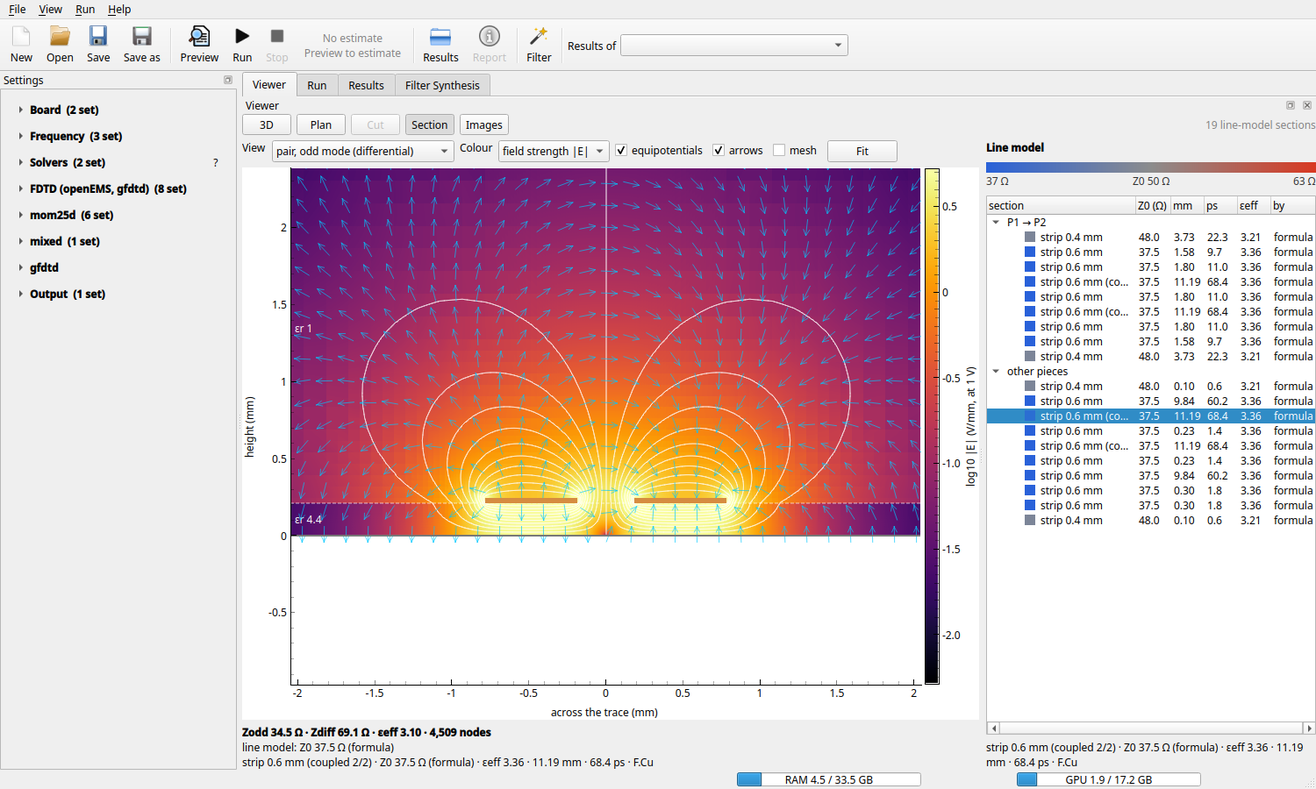
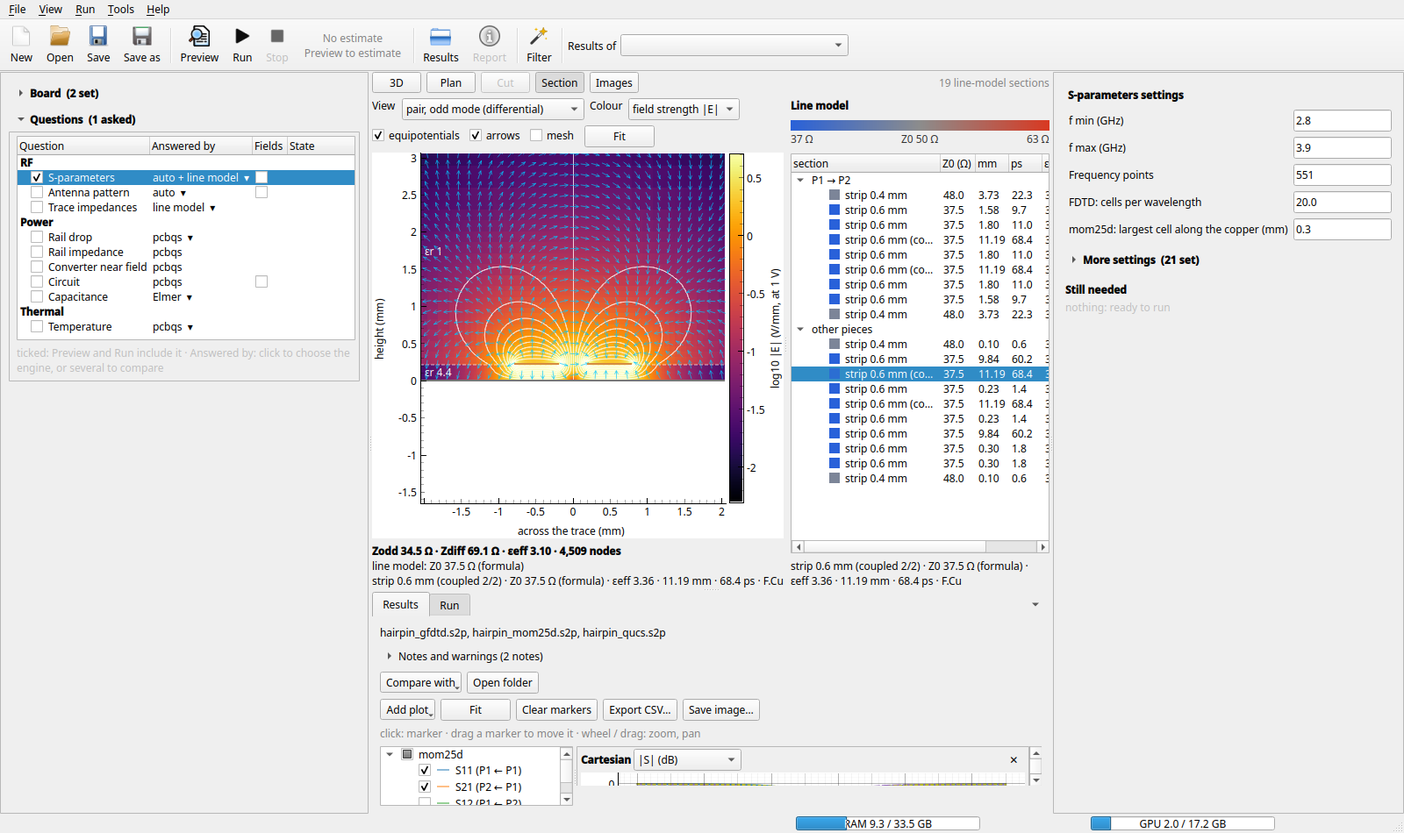
API 2.9: what a window shows first, what a run still needs; the window's fixed layout (docs, pins)
- options.Option.level: 'basic' for the few settings a run is set up with (the
  board, extra ports, the frequency range and points). A solver names its own
  in Solver.basic (all_options marks them): kicad2ems-fdtd's cells per
  wavelength, mom25d's and pcbqs's largest cell.
- study.rf_needs(values): what an S-parameter run of a form's values still
  needs, [dict(text, key)]: no board, a board that is not there, a KiCad board
  without a port (its footprints read, no model made), a band the wrong way
  round.
- analyses.Analysis.missing(values, board, results): the same for an analysis,
  by default what its command raises; Analysis.uses: the analyses whose result
  it can start from, so that what one of them will give in the same run is not
  missing.

kicad2ems-gui 25c1487 uses them: one fixed layout (the questions, the board
with a Results and Run drawer under it, the settings), the few settings first
with the rest under a searchable "More settings", and a "Still needed" list
with a Run button that says what it will do. docs/gui.md describes the window
as it is now, with its pictures taken again; docs/api.md the API. pcbqs f4ffefb
says a rail's load with no pad on ground there (roadmap, Power tools item 1:
what is left of it). Roadmap: what is left of the window's redesign.
Pins: kicad2ems-gui, pcbqs, mom25d. Version 261112.post9.

Claude-Session: https://claude.ai/code/session_012CT5QN8wURAqVga6eLwqiU

diff --git a/tests/test_study.py b/tests/test_study.py
@@ -370,3 +370,50 @@ def test_two_engines_answers_side_by_side(plugins, tmp_path):
     assert study.default_fields('openems', 1e-5, 1e-2, sweep='log') == dict(dump=['E@F.Cu@0.000316'])
     assert study.default_fields('mom25d', 1.0, 6.0) == dict(mom_dump=[3.5])           # its current maps: the frequency
     assert study.default_fields('qucs', 1, 2) == {} and study.default_fields('nobody', 1, 2) == {}
+
+
+def test_what_a_run_still_needs_and_what_is_shown_first(plugins, tmp_path, demo_files):
+    """API 2.9. rf_needs: what an S-parameter run of a form's values lacks, with the setting it is set by (cheap:
+    the board's footprints, no model). An analysis's missing(): what its command raises, unless what it uses is
+    to come in the same run. An option's level: kicad2ems's few, and those a solver names in `basic`."""
+    from kicad2ems.study import rf_needs
+    from kicad2ems.config import all_options, CORE
+    from kicad2ems.analyses import Analysis
+    assert rf_needs({}) == [dict(text='choose the board', key='board')]
+    assert rf_needs(dict(board=str(tmp_path / 'no.kicad_pcb'))) == [dict(text='the board is not there: no.kicad_pcb', key='board')]
+    board = demo_files[0] + '.kicad_pcb'
+    assert rf_needs(dict(board=board, fmin='1', fmax='8')) == []                 # (its ports: from its pos file)
+    assert rf_needs(dict(board=board, pos=demo_files[0] + '-top.pos')) == []
+    assert [m['key'] for m in rf_needs(dict(board=board, fmin='8', fmax='2'))] == ['fmax']
+    assert [m['key'] for m in rf_needs(dict(board=board, fmin='x'))] == ['fmin']
+    bare = tmp_path / 'bare.kicad_pcb'
+    bare.write_text('(kicad_pcb (version 20240108) (generator "pcbnew") (layers (0 "F.Cu" signal) (31 "B.Cu" signal)))')
+    got = rf_needs(dict(board=str(bare)))
+    assert [m['key'] for m in got] == ['ports'] and got[0]['text'].startswith('the board has no port')
+    assert rf_needs(dict(board=str(bare), ports=['P1@1,2'])) == [] and rf_needs(dict(board=str(bare), pos='b.pos')) == []
+
+    class Rail(Analysis):
+        name = 'rail'
+
+        def command(self, values, board, out, preview=False, results=None):
+            if not values.get('rail'):
+                raise ValueError('name the rail')
+            return ['x']
+
+    class Heat(Analysis):
+        name, uses = 'heat', ('circuit',)
+
+        def command(self, values, board, out, preview=False, results=None):
+            if not values.get('loss') and not (results or {}).get('circuit'):
+                raise ValueError('give the losses, or run the circuit first')
+            return ['x']
+    assert Rail().missing({}, None) == [dict(text='name the rail', key=None)] and Rail().missing(dict(rail='3V3'), None) == []
+    assert Heat().missing({}, None)[0]['text'].startswith('give the losses')
+    assert Heat().missing({}, None, dict(circuit=None)) == []                    # asked with it: to come
+    assert Heat().missing({}, None, dict(circuit='out/c')) == [] and Rail().missing({}, None, dict(circuit=None)) != []
+    from kicad2ems.solvers import registry
+    basic = {o.key for _, o in all_options() if o.level == 'basic'}
+    assert {o.key for o in CORE if o.level == 'basic'} == {'board', 'ports', 'fmin', 'fmax', 'points'}
+    for sv in registry().values():                              # a solver's own: those it names
+        assert set(sv.basic) & {o.key for o in sv.options} <= basic
+    assert 'sweep' not in basic and 'out' not in basic

diff --git a/src/kicad2ems/config.py b/src/kicad2ems/config.py
@@ -168,7 +168,7 @@ CORE = [
            cli=dict(metavar='KIND[:SLL]')),
     Option('board', None, ".kicad_pcb, .gbrjob (Gerber job file; ports from --pos), the <name>_board.json of an "
            "earlier run, or a .toml config that names one", path=True, gui='Board (.kicad_pcb)', group='board',
-           cli=dict(flags=['board'], nargs='?')),
+           cli=dict(flags=['board'], nargs='?'), level='basic'),
     Option('pos', None, "pick-and-place file listing the port components", path=True, gui='Pick-and-place file',
            group='board'),
     Option('nets', None, "comma-separated nets to include, or auto (the nets under the ports plus the ground nets; "
@@ -178,7 +178,7 @@ CORE = [
            gui='Region (x0,y0,x1,y1 or a drawing layer)', group='board'),
     Option('ports', [], "an extra port: P3=J1.1 (on pad 1 of J1) or P3@x,y[,layer[,rotation]] (KiCad mm); "
            "repeatable", list, conv=items, gui='Extra ports (P3=J1.1, P4@x,y ...)', group='board',
-           cli=dict(flags=['--port'], dest='ports', action='append', metavar='SPEC')),
+           cli=dict(flags=['--port'], dest='ports', action='append', metavar='SPEC'), level='basic'),
     Option('cut_ports', False, "a port wherever a signal track crosses the region edge", bool,
            gui='Ports where tracks cross the region edge', group='board'),
     Option('ground', None, "copper layer to model as a solid plane over the whole outline", gui='Solid ground layer',
@@ -208,9 +208,9 @@ CORE = [
            "as those faces' own sheets, else (mom25d, the line model, zero-thickness sheets) weighted by their share of "
            "the loss", choices=('auto', 'none', 'osp', 'enig', 'enepig', 'hasl', 'hasl-snpb', 'imag', 'imsn'),
            gui='Surface finish', group='board'),
-    Option('fmin', 0.5, "GHz (default {default})", float, gui='f min (GHz)', group='band'),
-    Option('fmax', 10.0, "GHz (default {default})", float, gui='f max (GHz)', group='band'),
-    Option('points', 401, "frequency points (default {default})", int, gui='Frequency points', group='band'),
+    Option('fmin', 0.5, "GHz (default {default})", float, gui='f min (GHz)', group='band', level='basic'),
+    Option('fmax', 10.0, "GHz (default {default})", float, gui='f max (GHz)', group='band', level='basic'),
+    Option('points', 401, "frequency points (default {default})", int, gui='Frequency points', group='band', level='basic'),
     Option('sweep', 'linear', "how the points are spaced: linear (default) or log (evenly on a log scale: a band of "
            "several decades, as the low-frequency solver's; fmin above 0)", choices=('linear', 'log'),
            gui='Frequency spacing', group='band'),
@@ -269,6 +269,8 @@ def all_options(reg=None):
     for sv in reg.values():
         for o in sv.options:
             out.setdefault(o.key, (sv.name, o))
+            if o.key in getattr(sv, 'basic', ()) and getattr(o, 'level', None) is None:
+                o.level = 'basic'                            # (a plugin names them: Solver.basic, since API 2.9)
     return list(out.values())
 
 

diff --git a/src/kicad2ems/analyses.py b/src/kicad2ems/analyses.py
@@ -58,6 +58,12 @@ and, since 2.6 (kicad2ems.study: questions and engines),
                           run: (); then it is one question of its own name
   engine                  the program's name as a list shows it beside a question ('pcbqs', 'Elmer'); '': its label
   questions               study.Question objects of its own, for what kicad2ems has no question for
+and, since 2.9,
+  missing(values, board, results=None)
+                          what a run still needs, [dict(text, key)]: the default is what command() raises
+  uses                    the analyses whose latest result it can start from, when there is one (the temperature
+                          from a circuit's losses): not required, as `needs` are
+  an option's 'level'     'basic' in an options() row: one of the few a run is set up with (Option.level)
   fields                  the bool option that makes it write field dumps too ('fields'); '': none
   for_questions(values, asked)
                           its settings for a run that is asked only some of its questions (the rail's drop without
@@ -104,6 +110,7 @@ class Analysis:
     engine = ''
     questions = ()
     fields = ''
+    uses = ()
 
     def for_questions(self, values, asked):
         """The settings for a run asked only the questions `asked` of those it provides."""
@@ -129,6 +136,23 @@ class Analysis:
     def command(self, values, board, out, preview=False, results=None):
         """[program, argument ...] that runs it into folder `out`; ValueError: what is missing."""
         raise NotImplementedError(f"{self.name}: command")
+
+    def missing(self, values, board, results=None):
+        """What a run of these settings still needs, before it is started: [dict(text, key)], key the option it is
+        set by (None: not one option). A front end lists them and does not start the run (2.9). The default is
+        what command() raises; an analysis that can tell more from the board (a load with no pad on ground) adds
+        it here, cheaply: it is asked on every change. results: as command's, and None for an analysis that is
+        asked with this one and has no result yet: what one of `uses` will give is not missing."""
+        results = dict(results or {})
+        to_come = [k for k in self.uses if k in results and results[k] is None]
+        try:
+            self.command(values, board, os.path.join(os.sep, 'nowhere'),
+                         results={k: v for k, v in results.items() if v is not None})
+        except ValueError as e:
+            return [] if to_come else [dict(text=str(e), key=None)]
+        except Exception:                                    # noqa: BLE001 (not a thing to ask of the user)
+            return []
+        return []
 
     def status(self, line):
         """The progress a line of its output states, or None."""

diff --git a/src/kicad2ems/study.py b/src/kicad2ems/study.py
@@ -620,3 +620,42 @@ def main(argv=None, prog='kicad2ems study'):
         print('\n'.join(describe(steps)))
         return 0
     return run(a.config, only=a.only, preview=a.preview, out=a.out)
+
+
+def rf_needs(values):
+    """What an S-parameter run of these settings still needs before it can start: [dict(text, key)], key the
+    setting it is set by. Cheap (the board file's footprints are read, no model is made): a front end asks on
+    every change, lists the answers and does not start the run."""
+    import os
+    out = []
+    board = str(values.get('board') or '').strip()
+    if not board:
+        return [dict(text='choose the board', key='board')]
+    if not os.path.exists(board):
+        return [dict(text=f"the board is not there: {os.path.basename(board)}", key='board')]
+    if board.lower().endswith('.kicad_pcb') and not any(values.get(k) for k in ('ports', 'region', 'pos')):
+        try:
+            from .importers.kicad import KiCadBoard
+            if not _ports_of(board, os.path.getmtime(board)):
+                out.append(dict(text="the board has no port: a footprint with P1, P2 ... on its Fab layer at a "
+                                     "trace's end, or Extra ports", key='ports'))
+        except Exception:                                    # noqa: BLE001 (the run will say what is wrong with it)
+            pass
+    try:
+        lo, hi = float(values.get('fmin') or 0), float(values.get('fmax') or 0)
+        if lo and hi and hi <= lo:
+            out.append(dict(text='f max is not above f min', key='fmax'))
+    except (TypeError, ValueError):
+        out.append(dict(text='the frequencies are not numbers', key='fmin'))
+    return out
+
+
+_PORTS = {}
+
+
+def _ports_of(board, stamp):
+    """How many port footprints a KiCad board file has (kept until the file changes)."""
+    if _PORTS.get(board, (None,))[0] != stamp:
+        from .importers.kicad import KiCadBoard
+        _PORTS[board] = (stamp, len(KiCadBoard(board).port_footprints()))
+    return _PORTS[board][1]

diff --git a/src/kicad2ems/api/frontend.py b/src/kicad2ems/api/frontend.py
@@ -52,7 +52,7 @@ NAMES = dict(
     mark_run='.study:mark', run_mark='.study:marked',
     Study='.study:Study', read_study='.study:read_config', write_study='.study:write_config',
     study_plan='.study:plan', engine_named='.study:engine_named', latest_results='.study:latest_results',
-    default_fields='.study:default_fields', compare_engines='.study:compare',
+    default_fields='.study:default_fields', compare_engines='.study:compare', rf_needs='.study:rf_needs',
     run_dir='.runs:run_dir', preview_dir='.runs:preview_dir', tool_dir='.runs:tool_dir',
     tool_preview_dir='.runs:tool_preview_dir', board_name='.runs:board_name',
     registry='.solvers:registry', get_solver='.solvers:get', resolve_lines='.solvers:resolve_lines',

diff --git a/src/kicad2ems/options.py b/src/kicad2ems/options.py
@@ -26,6 +26,8 @@ class Option:
     group: str = None           # command-line and GUI group
     path: bool = False          # a path: relative to the config file it is read from
     cli: dict = None            # argparse extras: flags, dest, metavar, action
+    level: str = None           # 'basic': one of the few a run is set up with (a window shows those first, the
+                                # rest under "More settings"); None or 'more': the rest
 
     @property
     def short(self):

diff --git a/src/kicad2ems/solvers/__init__.py b/src/kicad2ems/solvers/__init__.py
@@ -113,6 +113,8 @@ class Solver:
     order = 50
     capabilities = {}
     options = []
+    basic = ()                  # the keys of its options a run is set up with (its main cell size): a window shows
+                                # them first, the rest under "More settings" (Option.level; API 2.9)
 
     def check(self, s=None):
         """(usable, one line): its version and origin, or what is missing and how to get it. s: the run's settings,

diff --git a/src/kicad2ems/__init__.py b/src/kicad2ems/__init__.py
@@ -38,7 +38,7 @@ The window is its own package, kicad2ems-gui (the gui extra), as are the full-wa
 
 Documentation: docs/index.md in the repository.
 """
-__version__ = '261112.post8'
+__version__ = '261112.post9'
 
 import os as _os
 # kicad2ems.examples is the checkout's examples/ (pyproject's package-dir). A compat editable install (install.py's

diff --git a/src/kicad2ems/api/__init__.py b/src/kicad2ems/api/__init__.py
@@ -17,7 +17,7 @@ plugin that imports plot_antenna does not import matplotlib until it draws.
 """
 import importlib
 
-API_VERSION = (2, 8)
+API_VERSION = (2, 9)
 UNVERSIONED = (1, 0)                # what a plugin that declares no `api` is taken to be
 
 

diff --git a/docs/gui.md b/docs/gui.md
@@ -10,28 +10,42 @@ kicad2ems-gui [config.toml]   # or: python -m kicad2ems_gui
 The GUI edits a run's settings and starts the command-line tool as a separate process: closing the window never
 loses a run, and the GUI itself doesn't need openEMS.
 
-![The window: the settings on the left, the Results page with a hairpin filter's S-parameters from three solvers](img/readme/gui_sparams.png)
+![The window: the questions on the left, a hairpin filter's board with its S-parameters from three solvers in the drawer under it, the settings on the right](img/readme/gui_sparams.png)
 
 ## The window
 
+One layout, in three columns: what is asked on the left, the board in the middle with the results that are not
+maps in a drawer under it, the settings of the question selected on the right.
+
 - **Toolbar**: New, Open, Save, Save as, Preview, Run, Stop, the run's estimate, the results folder, the report,
-  *Filter* (the wand: the [Filter Synthesis](#filter) page), and *Results of*: this board's preview or one of its
-  runs ([below](#run-folders)). The estimate (after a preview) is the time and memory of the full-wave solvers
-  ticked, or of the one *auto* would pick (`~4 min · 1.3 GB`); grey once the settings change, red when it won't
-  fit in the memory available. It opens the Solvers window.
+  *Filter* (the wand: [Filter Synthesis](#filter), a window of its own), and *Results of*: this board's preview
+  or one of its runs ([below](#run-folders)). The estimate (after a preview) is the time and memory of the
+  full-wave solvers ticked, or of the one *auto* would pick (`~4 min · 1.3 GB`); grey once the settings change,
+  red when it won't fit in the memory available. It opens the Solvers window. **Run says what it will do**
+  (*Run 2*: its tooltip names them in order) or, while something is missing, what that is (*Choose the board*):
+  clicking it then goes to where it is set ([Still needed](#needed)).
 - **Status bar**: the memory in use, the GPU's (through `nvidia-smi` or `rocm-smi`), and a running run's own;
   amber above 80 %, red above 95 %.
-- **Study** (left): the *Board*, then the **Questions** asked of it ([below](#study)), then the settings of the
-  question selected. For S-parameters these are collapsible sections: *Frequency*, *Solvers* (the driven ports),
-  one per solver (*FDTD (openEMS, gfdtd)*: the mesh, run and field-dump settings both share; *gfdtd*; *mom25d*;
-  ...), and *Output*. A solver's section is greyed while that solver isn't chosen. Each header counts its
-  settings that are set (`Frequency (3 set)`); empty fields use the default, shown as a hint.
-- **Pages** (right): **Viewer**, **Run**, **Results** and **Filter Synthesis**, tabbed. Drag a tab out to see two
-  side by side, or float it; the *View* menu shows a closed page again, and *View > Reset layout* puts them all
-  back. A page comes to the front when it has something new: the Run page when a run starts, the Viewer when a
-  preview ends, the Results page when a run ends.
+- **Left: the board and the questions.** The *Board* (its file and extra ports; the rest under *More about the
+  board*), then the **Questions** asked of it ([below](#study)).
+- **Middle: the board**, in the [Viewer](#viewer), always there. While *Circuit* is asked its schematic is a tab
+  beside it. Under it the **drawer**: the [Results](#plots) page and the [Run](#the-run-page) page as tabs. It
+  folds to its tab bar (the arrow at its right, or *View*), and a page comes to the front when it has something
+  new: Run when a run starts, Results when one ends.
+- **Right: the settings of the question selected.** For S-parameters, the few a run is set up with: the frequency
+  range and points, and the main cell size of each solver chosen. The rest are under **More settings**: the
+  sections *Frequency*, *Solvers* (the driven ports), one per solver (*FDTD (openEMS, gfdtd)*: the mesh, run and
+  field-dump settings both share; *gfdtd*; *mom25d*; ...) and *Output*, each counting its settings that are set,
+  a solver's greyed while it isn't chosen. *Find a setting* at its top shows only those whose name, key or
+  section holds what you type. Empty fields use the default, shown as a hint.
+- <a id="needed"></a>**Still needed**, under the settings: what a run of the selected question lacks, a line each
+  (*the board has no port*, *name the rail*, *Q1 has no pad on ground: name the part its current returns
+  through*); a click goes to where it is set. Kicad2ems checks its own run (the board, its ports, the band); an
+  analysis says its own. *Run > Run the selected question alone* runs one whatever the others still need.
 
-The window remembers its size, its docks, pages and splitters, and the Results page's plots between sessions.
+The columns and the drawer fold from *View* (Ctrl+1, 2, 3) and stay as they were left; *View > Reset layout*
+shows them all. Nothing floats or docks. The window remembers its size, what is folded, its splitters and the
+Results page's plots between sessions.
 
 <a id="run-folders"></a>
 **Where results go.** Each run gets a folder of its own under the output folder, named after the board and when it
@@ -90,7 +104,7 @@ circuit and thermal; `kicad2ems[fem]`: Elmer for a rail's drop and the temperatu
 capacitance), found through kicad2ems's [registry](api.md#study); the window knows none by name. A question
 nobody installed answers is greyed, and its tooltip says how to install an engine.
 
-Selecting a row shows its engines' settings under the list, each a panel made from the plugin's options (two
+Selecting a row shows its engines' settings in the right column, each a panel made from the plugin's options (two
 engines: each under its name). **Run** makes the runs the questions take, in order: the solvers', then each
 analysis (the temperature after the circuit whose losses it takes); an engine that answers two questions
 answers them in one run. What a run leaves is shown where every result is: its maps in the Viewer (a rail's
@@ -257,7 +271,7 @@ section has the same controls.
 ## The Filter Synthesis page
 
 Designs a microstrip filter with [dfsynth](https://github.com/lowprocess/dfsynth) and writes its board and kicad2ems
-config (*Filter* in the toolbar, or *File > New filter*). dfsynth is its own package (the `filter` extra, or the
+config (*Filter* in the toolbar, or *File > New filter*: a window of its own, not about the open board). dfsynth is its own package (the `filter` extra, or the
 installer); the page builds its form from `dfsynth --describe --json` and runs dfsynth as a process, so a dfsynth
 option it has no field for appears under *More options*.
 

diff --git a/docs/api.md b/docs/api.md
@@ -43,6 +43,8 @@ in it. A user takes a provider of the same major version and at least the minor 
   2.7 a config's study and its runs: `Study`, `read_study`, `write_study`, `study_plan`, `engine_named`,
   `latest_results`, and the run folders' names `run_dir`, `preview_dir`, `tool_dir`, `tool_preview_dir`, `board_name`.
   2.8 engines compared: an analysis's `figures(folder)`, a `Question`'s `figures`, `compare_engines`; `default_fields`.
+  2.9 what a window shows first and what a run still needs: an option's `level`, a solver's `basic`, an analysis's
+  `missing(values, board, results)` and `uses`, `rf_needs`.
   [CHANGELOG.md](https://github.com/lowprocess/kicad2ems/blob/main/CHANGELOG.md) has each release's.
 
 Both API modules load their names on first use: importing one costs nothing until a name is used.
@@ -88,6 +90,7 @@ It declares, as class attributes:
 | `name`, `aliases`, `label` | `'mom25d'`, `('mom',)`, `'mom25d (MoM)'`; `name` is also its config table `[solver.mom25d]` |
 | `consumes` | `'board'` (the geometry) or `'network'` (the line model) |
 | `in_auto`, `in_all` | whether `--solvers auto` may pick it, and whether `all` includes it (default True; False for a variant of another solver or one for part of a band: mixed, pcbqs) |
+| `basic` | the keys of its options a run is set up with (its main cell size: `('mom_dmax',)`). A window shows those first and the rest under "More settings" (they get `Option.level = 'basic'`; 2.9) |
 | `previewed` | `--preview` prepares it without solving |
 | `rank`, `order` | rough cost (cheap solvers run first); its place in lists |
 | `capabilities` | `{feature: 'yes' \| 'no' \| 'ignored' \| 'approximated: how'}` over `FEATURES` |
@@ -174,6 +177,8 @@ and implements:
 | `for_questions(values, asked)` | its settings for a run asked only some of its questions (a rail's drop without its impedance) |
 | `owns(folder, preview=False)` | whether the folder holds its result: by default, that its result file is there. An engine whose file another also writes looks inside it |
 | `figures(folder)` | the figures of its answer by name, `[dict(name, value, unit)]`, for a table of engines against figures ([below](#study); 2.8) |
+| `missing(values, board, results=None)` | what a run of these settings still needs before it is started: `[dict(text, key)]`, `key` the option it is set by. By default what `command` raises; an analysis that can tell more from the board cheaply says it here (pcbqs's rail: a load with no pad on ground). `results` holds `None` for an analysis asked with it that has no result yet (2.9) |
+| `uses` | the analyses whose latest result it can start from when there is one (the temperature, from a circuit's losses): not required, as `needs` are. What one of them will give in the same run is not missing (2.9) |
 
 Its maps need no method: an analysis writes them as field dumps under `<out>/<name>/exc_<what>/` with its board
 as `<out>/<name>_board.json`, and a viewer of a run's dumps shows them. A dump's entry in `dump_info.json` may give
@@ -240,6 +245,14 @@ figure. `default_fields(engine, fmin, fmax, layer, sweep)` is what an engine is 
 wanted and none is set: `{option: value}` (an FDTD solver's `dump`: E on the layer at the band's centre; mom25d's
 `mom_dump`: that frequency; an analysis's `fields` switch).
 
+**What a window shows first, and what a run still needs (2.9).** An option has a `level`: `'basic'` for the few
+a run is set up with (the board, the extra ports, the frequency range and points; a solver names its own in
+`basic`), nothing for the rest. kicad2ems-gui shows the basic ones in view and the others under "More settings".
+`rf_needs(values)` is what an S-parameter run of a form's values still needs, `[dict(text, key)]`: no board, a
+board that is not there, a KiCad board without a port (its footprints are read, no model is made), a band the
+wrong way round. An analysis says its own with `missing`. A front end lists them where the settings are and does
+not start the run; kicad2ems's own commands say the same when they are run.
+
 <a id="kicad2emsapifrontend"></a>
 ## `kicad2ems.api.frontend`
 
@@ -252,7 +265,7 @@ For programs that drive kicad2ems: read a board, show its line model, start runs
 | settings | `Settings`, `build_settings`, `read_toml`, `all_options`, `default_out`, `PATH_KEYS`, `sitecfg` (the module), `G_DUMP` |
 | solvers | `registry`, `get_solver`, `resolve_lines`, `AUTO`, `LINES` |
 | analyses | `analyses` (`{name: Analysis}`: the analysis plugins installed), `analysis_of(folder)`, `read_analyses(config)` (`(run, {name: {key: value}})` of a config's `[analysis]` tables) |
-| the study | `study_tree()`, `questions()` (`{name: Question}`), `engines()` (`{name: Engine}`), `runs_for(asked)`, `mark_run(folder, engine, asked, preview)`, `run_mark(folder)`; a config's: `Study`, `read_study`, `write_study`, `study_plan`, `engine_named`, `latest_results` (2.7), `default_fields`, `compare_engines` (2.8) ([Questions and engines](#study)) |
+| the study | `study_tree()`, `questions()` (`{name: Question}`), `engines()` (`{name: Engine}`), `runs_for(asked)`, `mark_run(folder, engine, asked, preview)`, `run_mark(folder)`; a config's: `Study`, `read_study`, `write_study`, `study_plan`, `engine_named`, `latest_results` (2.7), `default_fields`, `compare_engines` (2.8), `rf_needs` (2.9) ([Questions and engines](#study)) |
 | runs | `Run`, `EventTail`, `stop_runs`, `find_results`, `toml_value`, `write_toml`; where a front end's runs go: `run_dir`, `preview_dir`, `tool_dir`, `tool_preview_dir`, `board_name` (2.7) |
 | files kicad2ems writes | `read_summary`, `read_antenna`, `check_format`, `read_touchstone`, `port_names` |
 | results | `meshes`, `phased`, `frames` (modules), `find_dumps`, `write_frames`, `read_sphere`, `sphere_cuts`, `sphere_gain` |

diff --git a/ROADMAP.md b/ROADMAP.md
@@ -24,12 +24,18 @@ the window lists the questions, with the engine chosen on each row, and compares
 
 ## The window, from a clean slate
 
-kicad2ems-gui's `docs/redesign.md` (not started; about three weeks; it needs step 2 above). One fixed layout
-around the board: the questions on the left, the board in the middle, the selected question's few settings on the
-right, plots and reports in a drawer under it. The steps Board, Questions, Set up, Run, Results in the header with
-one primary action; settings split into the few that matter and the rest; a list of what is still missing instead
-of disabled buttons; a start page with the examples as a gallery; tools that are not about a board under Tools
-(the impedance calculator is there already).
+kicad2ems-gui's `docs/redesign.md`. The fixed layout, the few settings first and the list of what a run still
+needs are built (its steps 2 to 5). Left, about two weeks:
+
+1. **The study as a model without Qt** (its step 1): the widgets still hold the state, and `app.py` is 2,500
+   lines. Nothing visible changes; it is what makes the rest cheap, and what kicad2ems-ipc could drive.
+2. **The header**: the study's name as the file menu, the steps Board, Questions, Set up, Run, Results, one
+   primary action. The toolbar is still the old one, with Run's wording.
+3. **The drawer by kind**: Plots, Report, Tables and Log as its tabs (they are the Results and Run pages whole),
+   with the run they are of and the compare switch; an analysis's panel with its few settings first, as the
+   solvers' are (an options row may say `level`; pcbqs's tables do not yet).
+4. **A start page** with the examples as a gallery; **picking on the board** (an option declares what it is
+   picked from: a net, a part, a pad); the Circuit page's own file buttons go.
 
 ## The line model
 
@@ -100,11 +106,12 @@ validated: pcbqs's docs and CHANGELOG.md, and the project's `NOTES-pi-nearfield.
    (a bridge's high-side switch: wpthb's Q1 and Q2 on VIN) has its return left out: the rail drop is then the
    power side alone (`ground_rise` 0: 49.7 mV for Q1 where the ground's share is missing) and only a note in
    the result says so, with the way round it (`--load Q1=0.67@Q4`, the part its current returns through). The
-   user met it on wpthb (2026-11-12) and asked for it to be kept in view. To do: find the return by itself (from
-   the load's other pads through the parts on those nets to one with a pad on ground: the low-side switch of
-   its half bridge, a sense resistor), say in the report's headline when a return was left out, and have the
-   window list it under "Still needed" for the Rail drop question ("Q1 has no pad on ground: name the part its
-   current returns through") instead of running without it.
+   user met it on wpthb (2026-11-12) and asked for it to be kept in view. Done since: the window lists it under
+   "Still needed" for Rail drop and does not start the run ("Q1 has no pad on ground: name the part its current
+   returns through, Q1=AMPS@Q3": pcbqs's `PowerIntegrity.missing` names the part where the board has one of the
+   load's kind on its switch node and on ground). Left: the command line still runs with the note alone, so
+   take the return found by itself there too (and a sense resistor in the path, which that search does not
+   follow), and say in the report's headline when a return was left out.
 2. **Cross-tool flows (U4, I3; 2.5 days).** A near-field converter as a circuit template (its parts, its loop's
    copper); a circuit's input-current spectrum as PDN loads; `pcbqs.mqs`'s assumed-pulse fields against the
    circuit's `--fields`.
